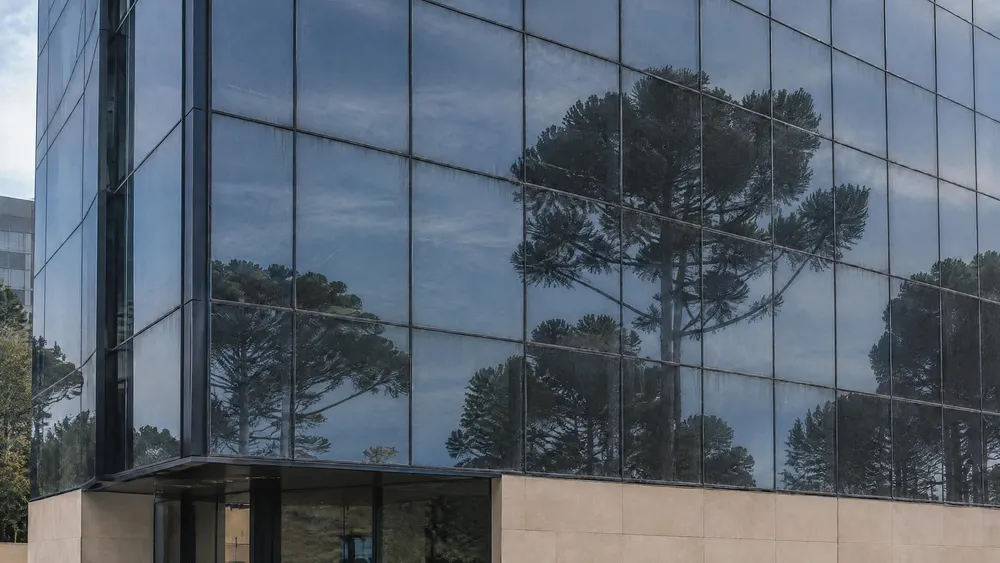
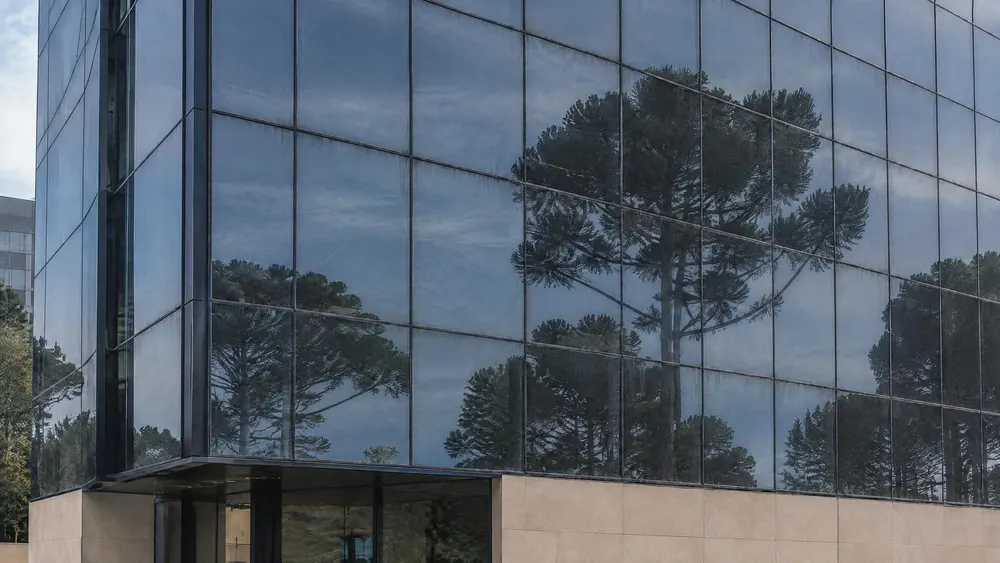
Antes e depois: fotos alinhadas, borda suave e irregular e inercia na rolagem (06/11)

diff --git a/script.js b/script.js
@@ -103,28 +103,42 @@
   var palco = document.querySelector('.ba-palco');
   var ba = palco && palco.querySelector('[data-ba]');
   if (ba && !calmo) {
-    var agendadoBa = false, contou = false;
-    var limpar = function () {
-      agendadoBa = false;
+    var contou = false, baAlvo = 0, baAtual = 0, baLoop = 0, baAntes = 0;
+    var baMedir = function () {
       var q = palco.getBoundingClientRect();
       var topoBa = parseFloat(getComputedStyle(ba).top) || 0;
       var curso = q.height - ba.offsetHeight;
       /* um respiro no começo (vê o sujo) e outro no fim (vê o limpo) */
-      var p = curso > 0 ? lim(((topoBa - q.top) / curso - .06) / .84) : 1;
-      var pos = 100 - p * 100;
-      ba.style.setProperty('--pos', pos.toFixed(2) + '%');
-      ba.classList.toggle('sem-antes', pos < 14);
-      ba.classList.toggle('sem-depois', pos > 86);
-      if (!contou && p >= .5) {
+      baAlvo = curso > 0 ? lim(((topoBa - q.top) / curso - .06) / .84) : 1;
+    };
+    var baPintar = function () {
+      /* a borda da máscara sai toda pela direita em 12% e toda pela esquerda em 88% */
+      ba.style.setProperty('--mx', (12 + baAtual * 76).toFixed(2) + '%');
+      ba.classList.toggle('sem-antes', baAtual > .85);
+      ba.classList.toggle('sem-depois', baAtual < .15);
+      if (!contou && baAtual >= .5) {
         contou = true;
         ba.dispatchEvent(new CustomEvent('limpou-metade', { bubbles: true }));
       }
     };
-    limpar();
-    window.addEventListener('scroll', function () {
-      if (!agendadoBa) { agendadoBa = true; requestAnimationFrame(limpar); }
-    }, { passive: true });
-    window.addEventListener('resize', limpar);
+    /* a limpeza persegue a rolagem com inércia: desliza entre um giro e outro da roda do mouse */
+    var baAndar = function (t) {
+      var dt = Math.min(t - baAntes, 50);
+      baAntes = t;
+      baAtual += (baAlvo - baAtual) * (1 - Math.exp(-dt / 170));
+      if (Math.abs(baAlvo - baAtual) < .0006) baAtual = baAlvo;
+      baPintar();
+      baLoop = baAtual === baAlvo ? 0 : requestAnimationFrame(baAndar);
+    };
+    var baMexeu = function () {
+      baMedir();
+      if (!baLoop && baAtual !== baAlvo) { baAntes = performance.now(); baLoop = requestAnimationFrame(baAndar); }
+    };
+    baMedir();
+    baAtual = baAlvo;
+    baPintar();
+    window.addEventListener('scroll', baMexeu, { passive: true });
+    window.addEventListener('resize', baMexeu);
   }
 
   /* ---------- barra do WhatsApp no celular: some quando já tem botão na tela ---------- */

diff --git a/estilo.css b/estilo.css
@@ -155,14 +155,17 @@ p, dl, dd, ol, ul, figure { margin: 0; }
 .comparar { background: var(--marinho); color: var(--off); }
 .comparar .cabeca p { color: var(--claro-2); }
 .ba-palco { margin-top: clamp(2.5rem, 1.75rem + 2.5vw, 4.5rem); }
-.ba { --pos: 50%; --topo-ba: 4.75rem; position: relative; height: min(56.25vw, calc(100svh - var(--topo-ba))); overflow: hidden; background: var(--marinho-2); }
+.ba { --mx: 50%; --topo-ba: 4.75rem; position: relative; height: min(56.25vw, calc(100svh - var(--topo-ba))); overflow: hidden; background: var(--marinho-2); }
 @media (max-width: 47.99rem) { .ba { height: calc(100svh - var(--topo-ba) - 4.5rem); } }
-.js .ba-palco { height: calc(min(56.25vw, 100svh - 4.75rem) + 110svh); }
+.js .ba-palco { height: calc(min(56.25vw, 100svh - 4.75rem) + 130svh); }
 .js .ba { position: sticky; top: var(--topo-ba); }
-@media (max-width: 47.99rem) { .js .ba-palco { height: calc(100svh - 9.25rem + 110svh); } }
+@media (max-width: 47.99rem) { .js .ba-palco { height: calc(100svh - 9.25rem + 130svh); } }
 .ba img { position: absolute; inset: 0; width: 100%; height: 100%; object-fit: cover; object-position: 62% 50%; }
-.ba .depois { clip-path: inset(0 0 0 var(--pos)); }
-.rodo { position: absolute; top: 0; bottom: 0; left: var(--pos); width: 1px; background: rgba(246, 244, 239, .85); }
+/* a máscara tem 3x a largura da imagem: basta deslizar a borda larga e irregular por cima dela */
+.ba .depois {
+  -webkit-mask: url("img/mascara-vidro.webp") no-repeat var(--mx) 0 / 300% 100%;
+  mask: url("img/mascara-vidro.webp") no-repeat var(--mx) 0 / 300% 100%;
+}
 .rot { position: absolute; bottom: 1.25rem; font-size: .8125rem; letter-spacing: .01em; color: var(--off); text-shadow: 0 1px 10px rgba(2, 11, 20, .75); transition: opacity .4s var(--sai); }
 .rot-antes { left: var(--margem); }
 .rot-depois { right: var(--margem); }

diff --git a/index.html b/index.html
@@ -130,7 +130,6 @@
     <div class="ba" data-ba>
       <img src="img/vidro-sujo-1920.webp" srcset="img/vidro-sujo-1000.webp 1000w, img/vidro-sujo-1920.webp 1920w" sizes="100vw" width="1920" height="1080" alt="Fachada de vidro sem brilho, com poeira e marcas de chuva, antes da limpeza" loading="lazy">
       <img class="depois" src="img/vidro-limpo-1920.webp" srcset="img/vidro-limpo-1000.webp 1000w, img/vidro-limpo-1920.webp 1920w" sizes="100vw" width="1920" height="1080" alt="A mesma fachada de vidro depois da limpeza, refletindo o céu e as araucárias" loading="lazy">
-      <span class="rodo" aria-hidden="true"></span>
       <span class="rot rot-antes">Antes</span>
       <span class="rot rot-depois">Depois</span>
     </div>

diff --git a/DESIGN.md b/DESIGN.md
@@ -109,7 +109,7 @@ Sem sombra de superfície.
 - **Botão:** reto, raio de 8px, altura de 52px. A seta anda 3px na diagonal no hover.
 - **Menu:** transparente sobre a entrada, off-white com logo escura depois dela. Sublinhado de 1px que entra da direita pra esquerda.
 - **Logo:** nasce grande acima do título, sobe junto com a página, encolhe e encaixa no menu. Sem script ou com "reduzir movimento", já fica no menu.
-- **Antes e depois:** imagem sangrada, fixa enquanto a página desce; o vidro limpa da direita pra esquerda com a rolagem, marcado por um filete de 1px. Sem botão e sem arrasto. Sem script ou com "reduzir movimento", fica parado no meio.
+- **Antes e depois:** imagem sangrada, fixa enquanto a página desce; o vidro clareia da direita pra esquerda com a rolagem, por uma borda larga e irregular (`img/mascara-vidro.webp`), com inércia. As duas fotos têm a mesma geometria: a suja foi alinhada à limpa. Sem botão, filete ou arrasto. Sem script ou com "reduzir movimento", fica parado no meio.
 - **Lista de serviços:** numerada, com a foto ao lado no computador (troca no hover, no foco e na rolagem) e sangrada acima de cada item no celular.
 - **Como funciona:** título fixo à esquerda, numeral grande na serifada à direita.
 - **Barra do WhatsApp:** fixa no celular, some quando já há um botão na tela.
